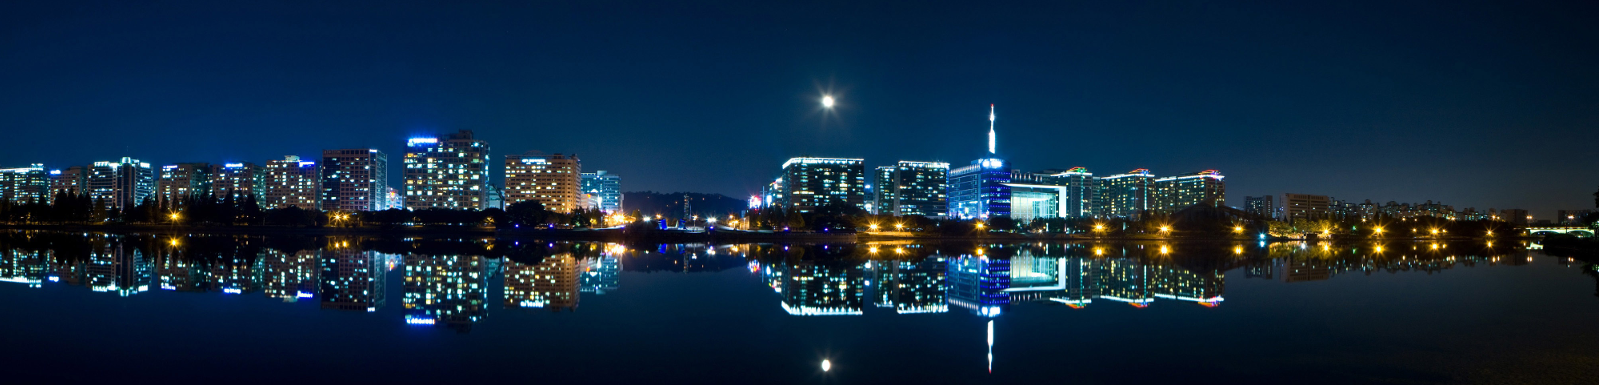
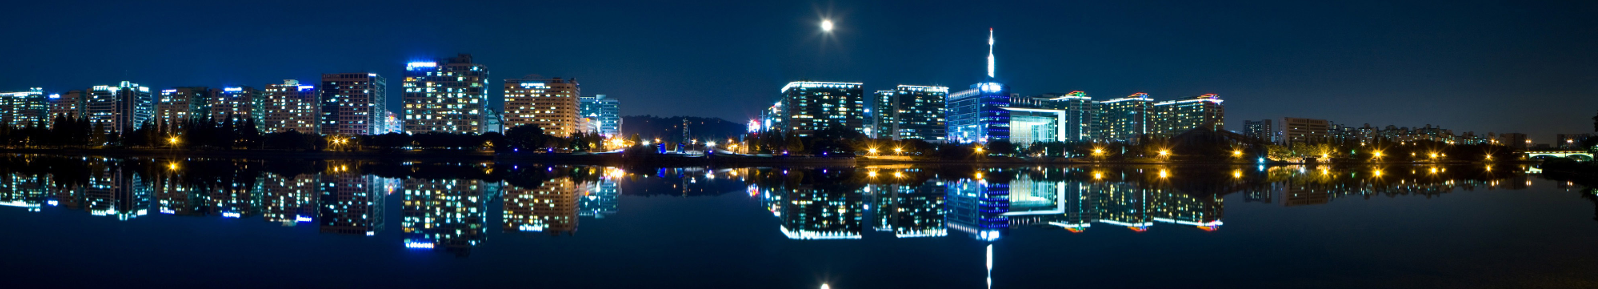
tint page images with accent colour and changed bg

diff --git a/assets/stylesheets/main.scss b/assets/stylesheets/main.scss
@@ -8,3 +8,5 @@
 @import "basically-basic/themes/{{ site.data.theme.skin | default: 'default' }}";
 
 @import "basically-basic";
+
+$intro-image-color-overlay: true;
